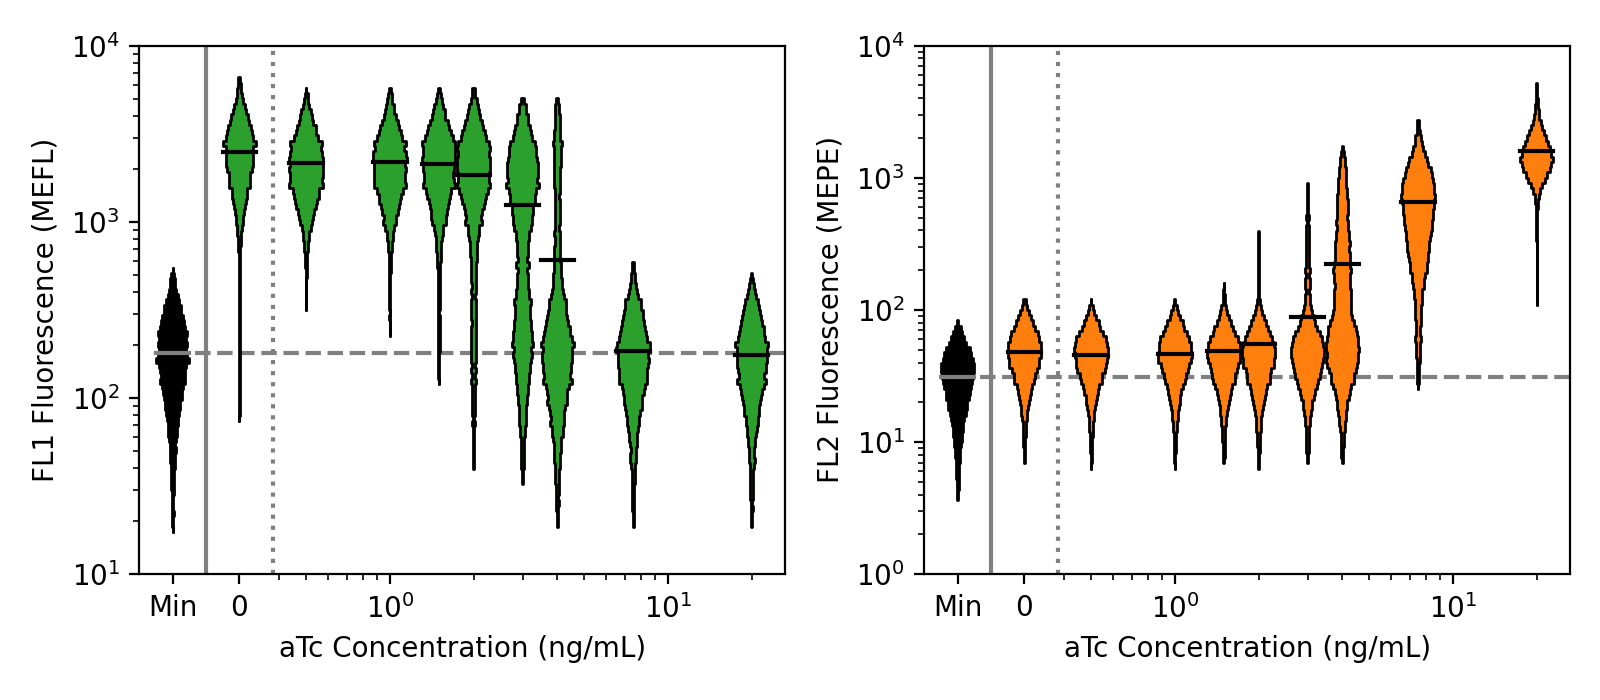
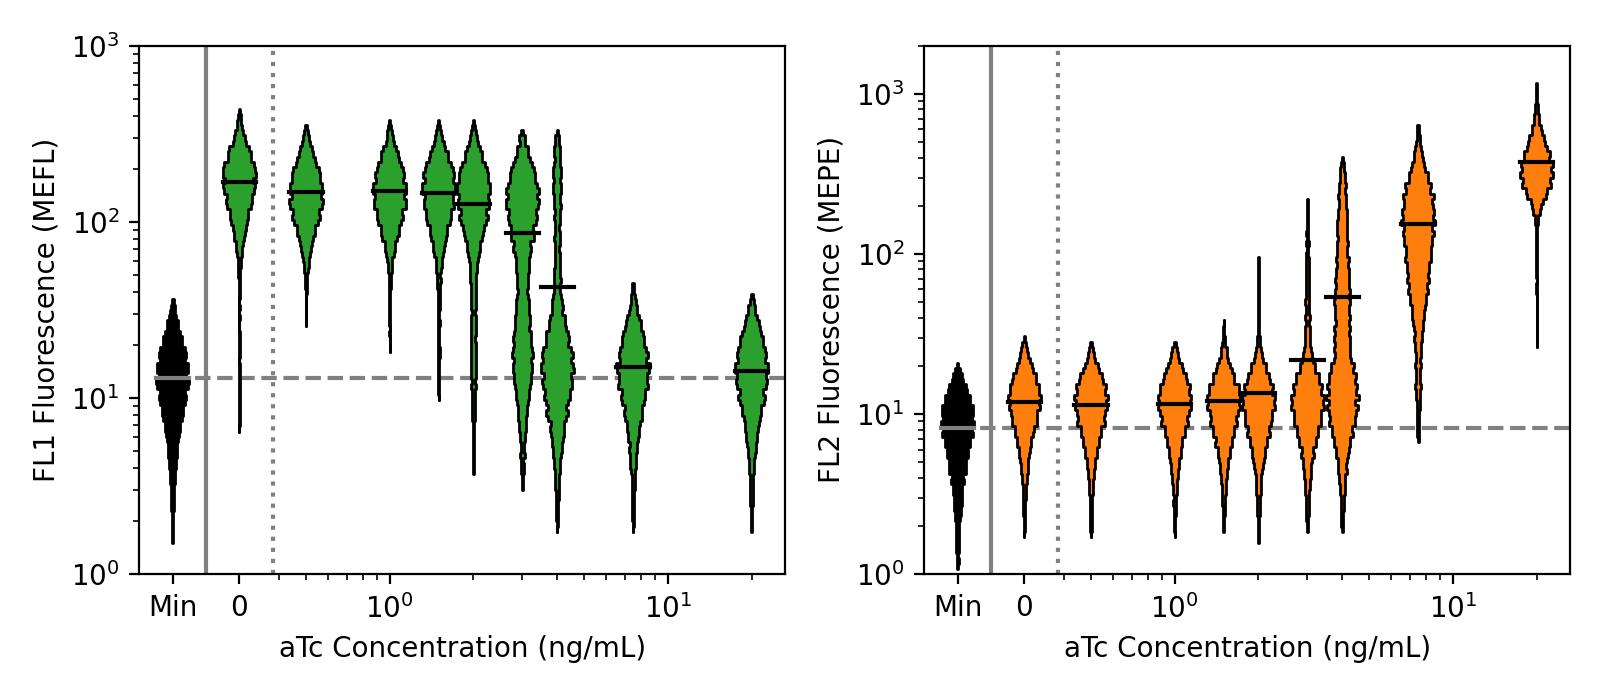
Updated compensation API tutorial.

diff --git a/doc/python_tutorial/compensate.rst b/doc/python_tutorial/compensate.rst
@@ -1,20 +1,20 @@
-Compensate Flow Cytometry Data
-==============================
+Compensating Flow Cytometry Data
+================================
 
 This tutorial focuses on how to perform multi-color compensation on flow cytometry data using ``FlowCal``, particularly by using the module :mod:`FlowCal.compensate`.
 
-The dataset in ``examples`` contains nine cell samples from one strain containing sfGFP and mCherry, under nine different inducer (aTc) levels that result in changes of sfGFP and mCherry expression. Ideally, we would be able to observe sfGFP in fluorescence channel FL1 and mCherry in FL2 without any crosstalk or interference. In reality, the signal observed in each channel is the sum of the following three components:
+The dataset in ``examples`` includes nine cell samples from a strain containing both sfGFP and mCherry genes, exposed to nine different inducer (aTc) levels that result in changes of sfGFP and mCherry expression. Ideally, we would be able to observe sfGFP in fluorescence channel FL1 and mCherry in FL2 without any crosstalk or interference. In reality, the signal observed in each channel is the sum of the following three components:
 
 * The channel's "main" fluorophore (in this case sfGFP for FL1 and mCherry for FL2).
-* "Bleedthrough" from all other fluorophores (sfGFP for FL2 and mCherry for FL1, although the latter, in this particular case, is zero).
+* "Bleedthrough" from all other fluorophores (sfGFP for FL2 and mCherry for FL1, although the latter, in this particular case, is close to zero).
 * Cell autofluorescence.
 
 Here, we show how to perform multi-color compensation to extract the true fluorophore signal from each channel. To allow this, our dataset also includes the following controls (folder ``controls``):
 
 * One no-fluorophore control (NFC) taken from a strain contaning no fluorophores.
-* Two single-fluorophore controls (SFCs) taken from strains with a single fluorophore each, in this case sfGFP and mCherry.
+* Two single-fluorophore controls (SFCs) taken from strains containing a single fluorophore each - in this case, sfGFP and mCherry.
 
-Multi-color compensation requires all fluorescence data to be in the same units. Therefore, if using arbitrary units, the experimental samples and the controls should be acquired using the same flow cytometry gains and detector voltages. On the other hand, this is not required if fluorescence is first calibrated using calibration beads samples (see :doc:`calibration tutorial </python_tutorial/mef>`). This is the approach we take here. Therefore, we have four .fcs files containing calibration beads data for the NFC, each SFC, and the experimental samples.
+Multi-color compensation requires all fluorescence data to be in units proportional to the fluorophore's emission intensity. In most cytometers, fluorescence in a.u. satisfies this requirement. However, older instruments can give a signal that is slightly nonlinear with respect to intensity. MEF calibration can compensate for this, and thus it is recommended to run compensation after calibration. In addition, calibration allows samples and controls taken at different cytometer settings to be used for compensation. Please refer to the :doc:`calibration tutorial </python_tutorial/mef>` for more information. In order to keep this tutorial focused, compensation here will be completely performed in a.u.
 
 Loading data and performing gating and calibration
 --------------------------------------------------
@@ -25,80 +25,7 @@ To start, navigate to the ``examples`` directory included with FlowCal, and open
 >>> import matplotlib.pyplot as plt
 >>> import FlowCal
 
-First, we load the calibration beads files:
-
->>> # .fcs file names
->>> beads_filename     = 'FCFiles/sample001.fcs'
->>> nfc_beads_filename = 'FCFiles/controls/sample003.fcs'
->>> sfc1_beads_filename = 'FCFiles/controls/sample002.fcs'
->>> sfc2_beads_filename = 'FCFiles/controls/sample001.fcs'
->>> # Load data
->>> beads_sample     = FlowCal.io.FCSData(beads_filename)
->>> nfc_beads_sample = FlowCal.io.FCSData(nfc_beads_filename)
->>> sfc1_beads_sample = FlowCal.io.FCSData(sfc1_beads_filename)
->>> sfc2_beads_sample = FlowCal.io.FCSData(sfc2_beads_filename)
->>> # Transform to RFI
->>> beads_sample     = FlowCal.transform.to_rfi(beads_sample)
->>> nfc_beads_sample = FlowCal.transform.to_rfi(nfc_beads_sample)
->>> sfc1_beads_sample = FlowCal.transform.to_rfi(sfc1_beads_sample)
->>> sfc2_beads_sample = FlowCal.transform.to_rfi(sfc2_beads_sample)
-
-Then, we perform density gating on these (see :doc:`gating tutorial </python_tutorial/gate>` for more info):
-
->>> beads_sample = FlowCal.gate.density2d(
-...     data=beads_sample,
-...     channels=['FSC','SSC'],
-...     gate_fraction=0.85,
-...     sigma=5.)
->>> nfc_beads_sample = FlowCal.gate.density2d(
-...     data=nfc_beads_sample,
-...     channels=['FSC','SSC'],
-...     gate_fraction=0.85,
-...     sigma=5.)
->>> sfc1_beads_sample = FlowCal.gate.density2d(
-...     data=sfc1_beads_sample,
-...     channels=['FSC','SSC'],
-...     gate_fraction=0.85,
-...     sigma=5.)
->>> sfc2_beads_sample = FlowCal.gate.density2d(
-...     data=sfc2_beads_sample,
-...     channels=['FSC','SSC'],
-...     gate_fraction=0.85,
-...     sigma=5.)
-
-And finally, we obtain the corresponding MEF transformation functions (see :doc:`calibration tutorial </python_tutorial/mef>` for more info):
-
->>> # MEFL values, used to calibrate channel FL1
->>> mefl_values     = np.array([0, 792, 2079, 6588, 16471, 47497, 137049, None])
->>> nfc_mefl_values = np.array([0, 792, 2079, 6588, 16471, 47497, 137049, None])
->>> sfc1_mefl_values = np.array([0, 792, 2079, 6588, 16471, 47497, 137049, 271647])
->>> sfc2_mefl_values = np.array([0, 792, 2079, 6588, 16471, 47497, 137049, None])
-<BLANKLINE>
->>> # MEPE values, used to calibrate channel FL2
->>> mepe_values     = np.array([0, 531, 1504, 4819, 12506, 36159, 109588, 250892])
->>> nfc_mepe_values = np.array([0, 531, 1504, 4819, 12506, 36159, 109588, 250892])
->>> sfc1_mepe_values = np.array([0, 531, 1504, 4819, 12506, 36159, 109588, 250892])
->>> sfc2_mepe_values = np.array([0, 531, 1504, 4819, 12506, 36159, 109588, 250892])
-<BLANKLINE>
->>> # Obtain transformation functions
->>> mef_transform_fxn = FlowCal.mef.get_transform_fxn(
-...     beads_sample,
-...     mef_channels=['FL1', 'FL2'],
-...     mef_values=[mefl_values, mepe_values])
->>> nfc_mef_transform_fxn = FlowCal.mef.get_transform_fxn(
-...     nfc_beads_sample,
-...     mef_channels=['FL1', 'FL2'],
-...     mef_values=[nfc_mefl_values, nfc_mepe_values])
->>> sfc1_mef_transform_fxn = FlowCal.mef.get_transform_fxn(
-...     sfc1_beads_sample,
-...     mef_channels=['FL1', 'FL2'],
-...     mef_values=[sfc1_mefl_values, sfc1_mepe_values])
->>> sfc2_mef_transform_fxn = FlowCal.mef.get_transform_fxn(
-...     sfc2_beads_sample,
-...     mef_channels=['FL1', 'FL2'],
-...     mef_values=[sfc2_mefl_values, sfc2_mepe_values])
-
-Next, we load the experimental sample files, perform density gating, and transform to MEF:
+First, we load the experimental sample files and perform density gating:
 
 >>> samples_filenames = ['FCFiles/sample029.fcs',
 ...                      'FCFiles/sample030.fcs',
@@ -117,8 +44,6 @@ Next, we load the experimental sample files, perform density gating, and transfo
 ...     sample = FlowCal.io.FCSData(sample_filename)
 ...     # Transform data to RFI
 ...     sample = FlowCal.transform.to_rfi(sample)
-...     # Calibrate using the transformation function obtained above.
-...     sample = mef_transform_fxn(sample, channels=['FL1', 'FL2'])
 ...     # Apply density gating
 ...     sample = FlowCal.gate.density2d(
 ...         data=sample,
@@ -127,12 +52,12 @@ Next, we load the experimental sample files, perform density gating, and transfo
 ...     # Save
 ...     samples.append(sample)
 
-Finally, we do the same for the control samples:
+Next, we do the same for the control samples:
 
 >>> # File names
->>> nfc_sample_filename = 'FCFiles/controls/sample004.fcs'
->>> sfc1_sample_filename = 'FCFiles/controls/sample010.fcs'
->>> sfc2_sample_filename = 'FCFiles/controls/sample019.fcs'
+>>> nfc_sample_filename = 'FCFiles/controls/nfc/sample004.fcs'
+>>> sfc1_sample_filename = 'FCFiles/controls/sfc1/sample007.fcs'
+>>> sfc2_sample_filename = 'FCFiles/controls/sfc2/sample019.fcs'
 >>> # Load files
 >>> nfc_sample = FlowCal.io.FCSData(nfc_sample_filename)
 >>> sfc1_sample = FlowCal.io.FCSData(sfc1_sample_filename)
@@ -141,10 +66,6 @@ Finally, we do the same for the control samples:
 >>> nfc_sample = FlowCal.transform.to_rfi(nfc_sample)
 >>> sfc1_sample = FlowCal.transform.to_rfi(sfc1_sample)
 >>> sfc2_sample = FlowCal.transform.to_rfi(sfc2_sample)
->>> # Calibrate using the transformation functions obtained above.
->>> nfc_sample = nfc_mef_transform_fxn(nfc_sample, channels=['FL1', 'FL2'])
->>> sfc1_sample = sfc1_mef_transform_fxn(sfc1_sample, channels=['FL1', 'FL2'])
->>> sfc2_sample = sfc2_mef_transform_fxn(sfc2_sample, channels=['FL1', 'FL2'])
 >>> # Perform density gating
 >>> nfc_sample = FlowCal.gate.density2d(
 ...     data=nfc_sample,
@@ -162,7 +83,7 @@ Finally, we do the same for the control samples:
 Observing bleedthrough
 ----------------------
 
-First, let's look at the FL1 and FL2 fluorescence of the SFCs. As a reminder, each control should contain only one fluorophore (sfGFP or mCherry). Ideally, the sfGFP SFC should only produce signal in FL1, and the mCherry SFC should only produce FL2 signal.
+Let's now look at the FL1 and FL2 fluorescence of the SFCs. As a reminder, each control should contain only one fluorophore (sfGFP or mCherry). Ideally, the sfGFP SFC should only produce signal in FL1, and the mCherry SFC should only produce FL2 signal.
 
 >>> # Obtain mean autofluorescence in FL1 and FL2 to plot in all panels
 >>> autofl = FlowCal.stats.mean(nfc_sample, channels=['FL1', 'FL2'])
@@ -190,8 +111,8 @@ First, let's look at the FL1 and FL2 fluorescence of the SFCs. As a reminder, ea
 ...     plt.axvline(autofl[0], color='gray')
 ...     plt.axhline(autofl[1], color='gray')
 ...     # Set the axes identically accross all samples
-...     plt.gca().set_xscale('logicle', T=1e5)
-...     plt.gca().set_yscale('logicle', T=1e5)
+...     plt.gca().set_xscale('logicle', T=2e4)
+...     plt.gca().set_yscale('logicle', T=2e4)
 ...     plt.title(sample_title)
 >>> plt.tight_layout()
 >>> plt.show()
@@ -214,7 +135,7 @@ While the mCherry SFC produces signal above autofluorescence in FL2 only (right 
 ...     xlabel='aTc Concentration (ng/mL)',
 ...     xscale='log',
 ...     yscale='log',
-...     ylim=(1e1,1e4),
+...     ylim=(1e0,1e3),
 ...     violin_width=0.12,
 ...     violin_kwargs={'facecolor': 'tab:green',
 ...                    'edgecolor':'black'},
@@ -229,7 +150,7 @@ While the mCherry SFC produces signal above autofluorescence in FL2 only (right 
 ...     xlabel='aTc Concentration (ng/mL)',
 ...     xscale='log',
 ...     yscale='log',
-...     ylim=(1e0,1e4),
+...     ylim=(1e0,2e3),
 ...     violin_width=0.12,
 ...     violin_kwargs={'facecolor': 'tab:orange',
 ...                    'edgecolor':'black'},
@@ -268,7 +189,7 @@ In ``FlowCal``, compensation is performed by creating a transformation function 
 ...     xlabel='aTc Concentration (ng/mL)',
 ...     xscale='log',
 ...     yscale='logicle',
-...     ylim=(-3e2, 1e4),
+...     ylim=(-3e1, 1e3),
 ...     violin_width=0.12,
 ...     violin_kwargs={'facecolor': 'tab:green',
 ...                    'edgecolor':'black'},
@@ -283,7 +204,7 @@ In ``FlowCal``, compensation is performed by creating a transformation function 
 ...     xlabel='aTc Concentration (ng/mL)',
 ...     xscale='log',
 ...     yscale='logicle',
-...     ylim=(-1e2, 1e4),
+...     ylim=(-3e1, 2e3),
 ...     violin_width=0.12,
 ...     violin_kwargs={'facecolor': 'tab:orange',
 ...                    'edgecolor':'black'},
